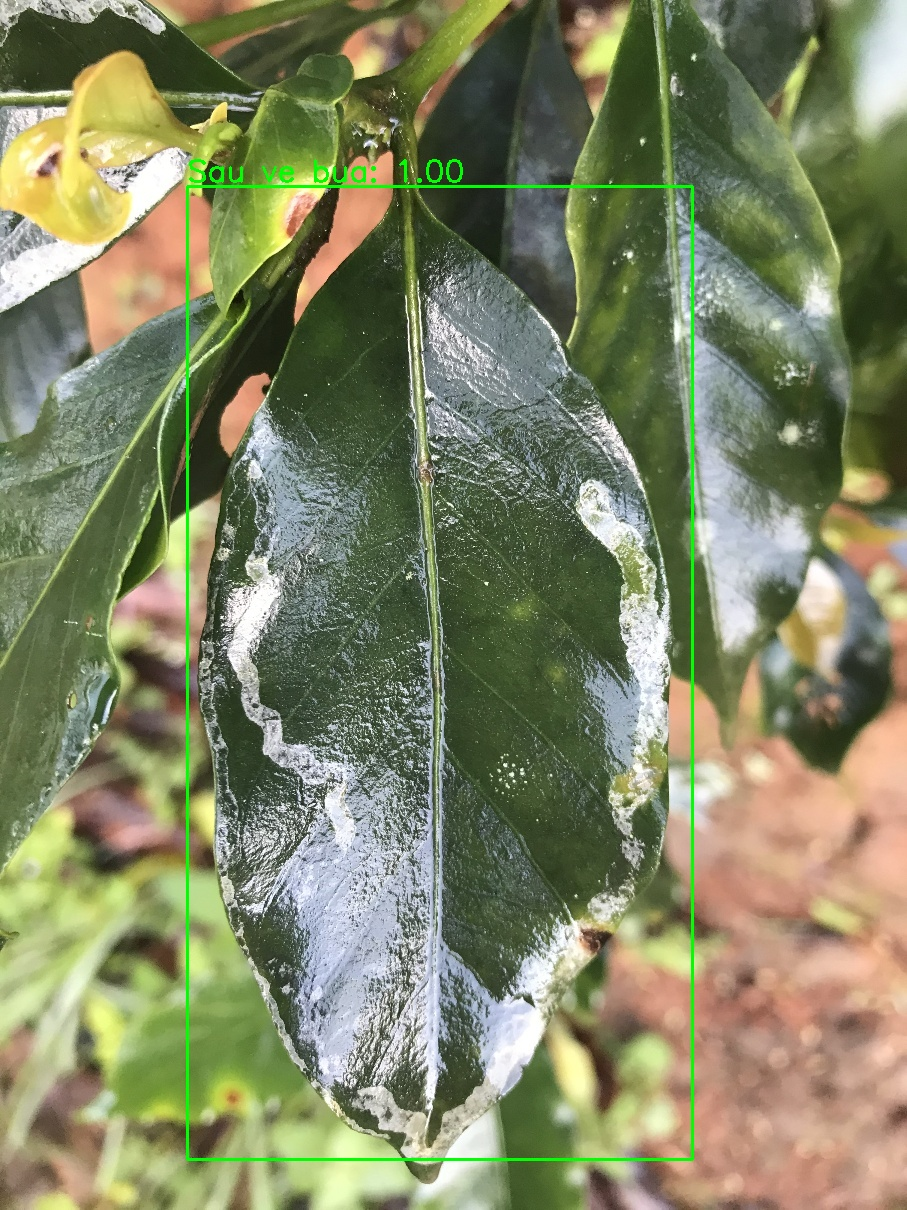
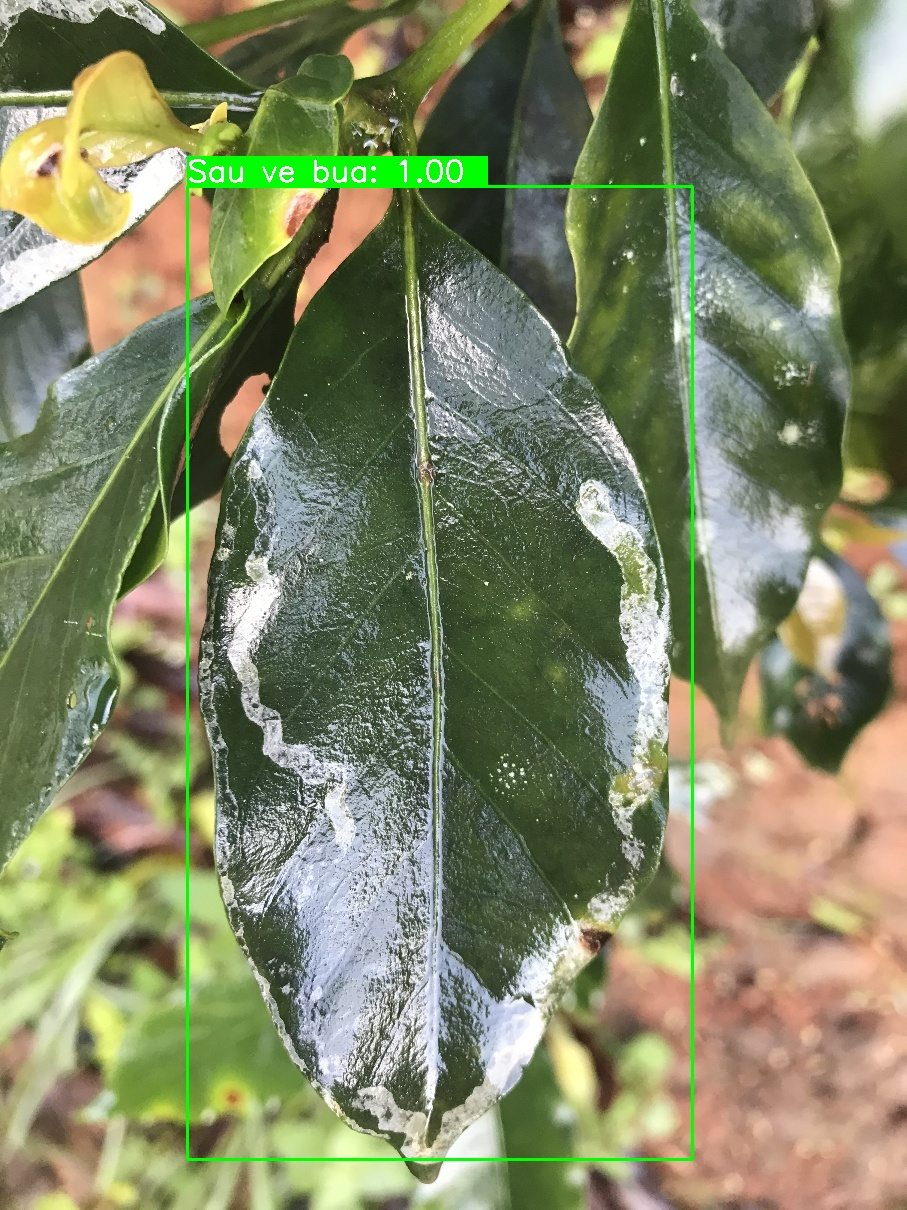
update demo

Changed region(s): [[0.1852, 0.1223, 0.5557, 0.1529]]

diff --git a/finalProject/app/templates/index.html b/finalProject/app/templates/index.html
@@ -31,37 +31,17 @@
                 <img src="static/images/img-500x500.jpg"  class="img-thumbnail" style="width: 500px !important; height: 500px !important;" id="output">
             </div>
         </div>
+    
     </div>
+    <div class="row">
+         <div id="table">
+             
+         </div>   
     </div>
+</div>
 </body>
+<script type="text/javascript" src="static/js/main.js"></script>
 <script>
-    function readPath(event){
-        var src = URL.createObjectURL(event.target.files[0]);
-        var preview = document.getElementById("input");
-        preview.src = src;
-        // preview.style.setProperty("width","500","important");
-        // preview.style.setProperty("height","500","important");
-    }
-    function sendImage(){
-        var img = document.getElementById("img").files[0];
-        var ajax = new XMLHttpRequest();
 
-        var form_data = new FormData();
-        form_data.append('file', document.querySelector('#img').files[0]);
-        
-        ajax.onreadystatechange = function(){
-            if(this.status == 200 && this.readyState == 4){
-                // document.getElementById("output").style.setProperty("width","500","important");
-                // document.getElementById("output").style.setProperty("height","500","important");
-                document.getElementById("output").src = this.responseText;
-                // document.getElementById("output").width = "500";
-                // document.getElementById("height").height = "500";
-                // console.log(this.responseText);
-            }
-        }
-        ajax.open("post","detect",true);
-        // ajax.responseType="blob";
-        ajax.send(form_data);
-    }
 </script>
 </html>

diff --git a/finalProject/app/static/js/main.js b/finalProject/app/static/js/main.js
@@ -28,20 +28,23 @@ function readPath(event){
                         tb =  tb  + `<tr>
                             <td>${v}</td>
                             <td>${res_json[v]["name"]}</td>
+                            <td><image with="300" height="200" src=${res_json[v]["image"]}/></td>
                             <td>${res_json[v]["treatment"][0]}</td>
-                            <td>${res_json[v]["treatment"][1]}</td>
+                            <td>${res_json[v]["guide"]}</td>
                         </tr>`;
-                        console.log(res_json[v]["name"]);
+                        console.log(res_json[v]["image"]);
                     }
                 }
+                console.log(tb);
                 var tab = `
                 <table class="table">
                 <thead>
                     <tr>
                       <th scope="col">#</th>
                       <th scope="col">Tên loại bệnh</th>
-                      <th scope="col">Tên thuốc 1</th>
-                      <th scope="col">Tên thuốc 2</th>
+                      <th scope ="col">Hình thuốc</th>
+                      <th scope="col">Tên thuốc</th>
+                      <th scope="col">Cách dùng</th>
                     </tr>
                       </thead>
                       <tbody>

diff --git a/finalProject/app/server.py b/finalProject/app/server.py
@@ -4,7 +4,10 @@ from email.mime import image
 from flask import Flask,render_template,request
 import cv2
 import random
+import json
 app = Flask(__name__,static_url_path='/static')
+with open('static/json/solve.json') as json_file:
+    solve = json.load(json_file)
 
 class YoloV4:
     def __init__(self):
@@ -17,9 +20,9 @@ class YoloV4:
             3 : "Dom rong"
         }
         self.color = {
-            1 : (255,255,255),
-            2 : (255,255,255),
-            3 : (255,255,255)
+            1 : (0,255,0),
+            2 : (255,0,0),
+            3 : (0,0,255)
         }
     def load_model(self):
         self.model.setInputParams(scale=1 / 255, size=(416, 416), swapRB=True)
@@ -29,7 +32,6 @@ class YoloV4:
         w = img.shape[1]
         # img = cv2.resize(img,(416,416))
         classIds, scores, boxes = self.model.detect(img, confThreshold=0.25, nmsThreshold=0.4)
-        print(classIds)
         for (classId, score, box) in zip(classIds, scores, boxes):
             index = random.randint(1,3)
             cv2.rectangle(img, (box[0], box[1]), (box[0] + box[2], box[1] + box[3]),
@@ -37,20 +39,23 @@ class YoloV4:
     
             text = '%s: %.2f' % (self.classes[classIds[0]], score)
             if box[1] < 100:
+                cv2.rectangle(img,(box[0],box[1] + box[3]),(box[0]+300, box[1] + box[3]+ 30),self.color[index],-1)
                 cv2.putText(img, text, (box[0], box[1] + box[3]+ 20), cv2.FONT_HERSHEY_SIMPLEX, 1,
-                color=self.color[index], thickness=2)
+                color=(255,255,255), thickness=2)
             else:
+                cv2.rectangle(img,(box[0],box[1]-30),(box[0]+300, box[1]),self.color[index],-1)
                 cv2.putText(img, text, (box[0], box[1] - 5), cv2.FONT_HERSHEY_SIMPLEX, 1,
-                color=self.color[index], thickness=2)
+                color=(255,255,255), thickness=2)
         name = path.split(".jpg")
         imgDetected = "{}.jpg".format(name[0]+"_detected")
         img = cv2.resize(img,(w,h))
         cv2.imwrite(imgDetected,img)
-        return imgDetected
+        return classIds,imgDetected
 m = YoloV4()
 m.load_model()
 @app.route("/")
 def index():
+    print(solve["0"]["treatment"][0])
     return render_template("index.html")
 
 @app.route("/detect",methods=['POST','GET'])
@@ -60,9 +65,15 @@ def detect():
         # imgFile = request.args.get("img")
         imgPath =   "./static/images/" + imgFile.filename
         imgFile.save(imgPath)
-        path = m.predict(imgPath)
-        return path
+        classIds,path = m.predict(imgPath)
+        res = '{'
+        for i in range(0,len(classIds)):
+            tmp = '{' + '"name":' + '"' +solve[str(classIds[i])]["name"] + '"' + ',' +'"treatment":'+'["'+ solve[str(classIds[i])]["treatment"][0] +'","' + solve[str(classIds[i])]["treatment"][1]+ '"]'
+            tmp = tmp + ',' +'"image":'+'"'+ solve[str(classIds[i])]["image"][0] +'"' + ',' + '"guide":' + '"' + solve[str(classIds[i])]["guide"] + '"' +'}'
+            res = res + '"{}":{},'.format(str(i),tmp)
+            # res = res + str(i) + ":" + str(classIds[i]) + ","
+        res = res + '"{}":"{}"'.format("path",path) + '}'
+        return res
         # return "<img src='"+path+"'/>"
-        
 if __name__ == "__main__":
     app.run(debug=False)
